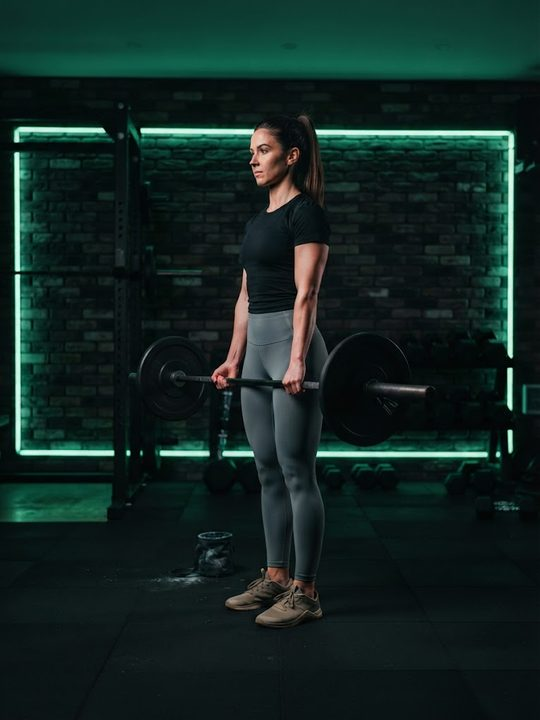
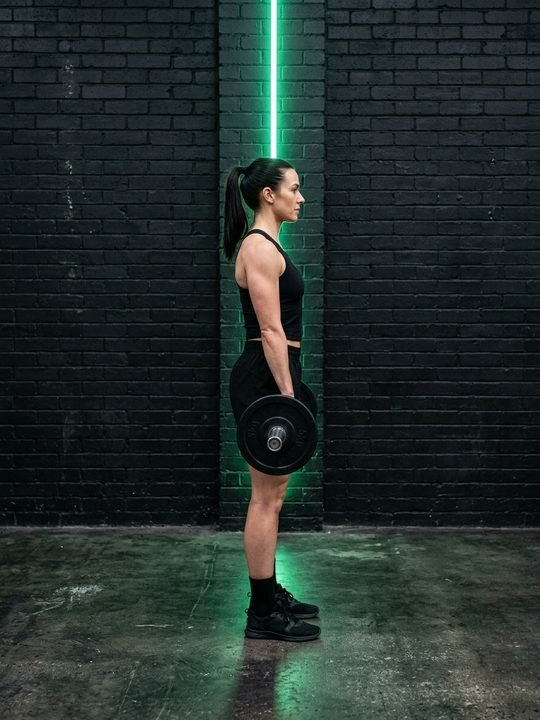
Frauen-GIF reverse_barbell_curl
Claude-Session: https://claude.ai/code/session_01PvyiLGJFyas6muFwwubScP

diff --git a/script.js b/script.js
@@ -528,7 +528,7 @@ function renderOverview() {
 // V8-04: Wochenplan-Einträge (haben trainingId) sind anklickbar -> Detailseite mit Dauer/Kalorien.
 // V6-08: Verlauf als Foto-Kacheln mit Wochenkopf, Gruppierung nach Woche/Monat.
 let imgSet = new Set();
-fetch('img/index.json?v=461').then(r => r.json()).then(a => { imgSet = new Set(a); }).catch(() => {});
+fetch('img/index.json?v=462').then(r => r.json()).then(a => { imgSet = new Set(a); }).catch(() => {});
 function slugOf(g) { return (g || '').replace(/^gifs\//, '').replace(/\.gif$/, ''); }
 // Foto passend zum Profil (m/w); ohne Foto -> GIF
 function imgOf(ex) {
